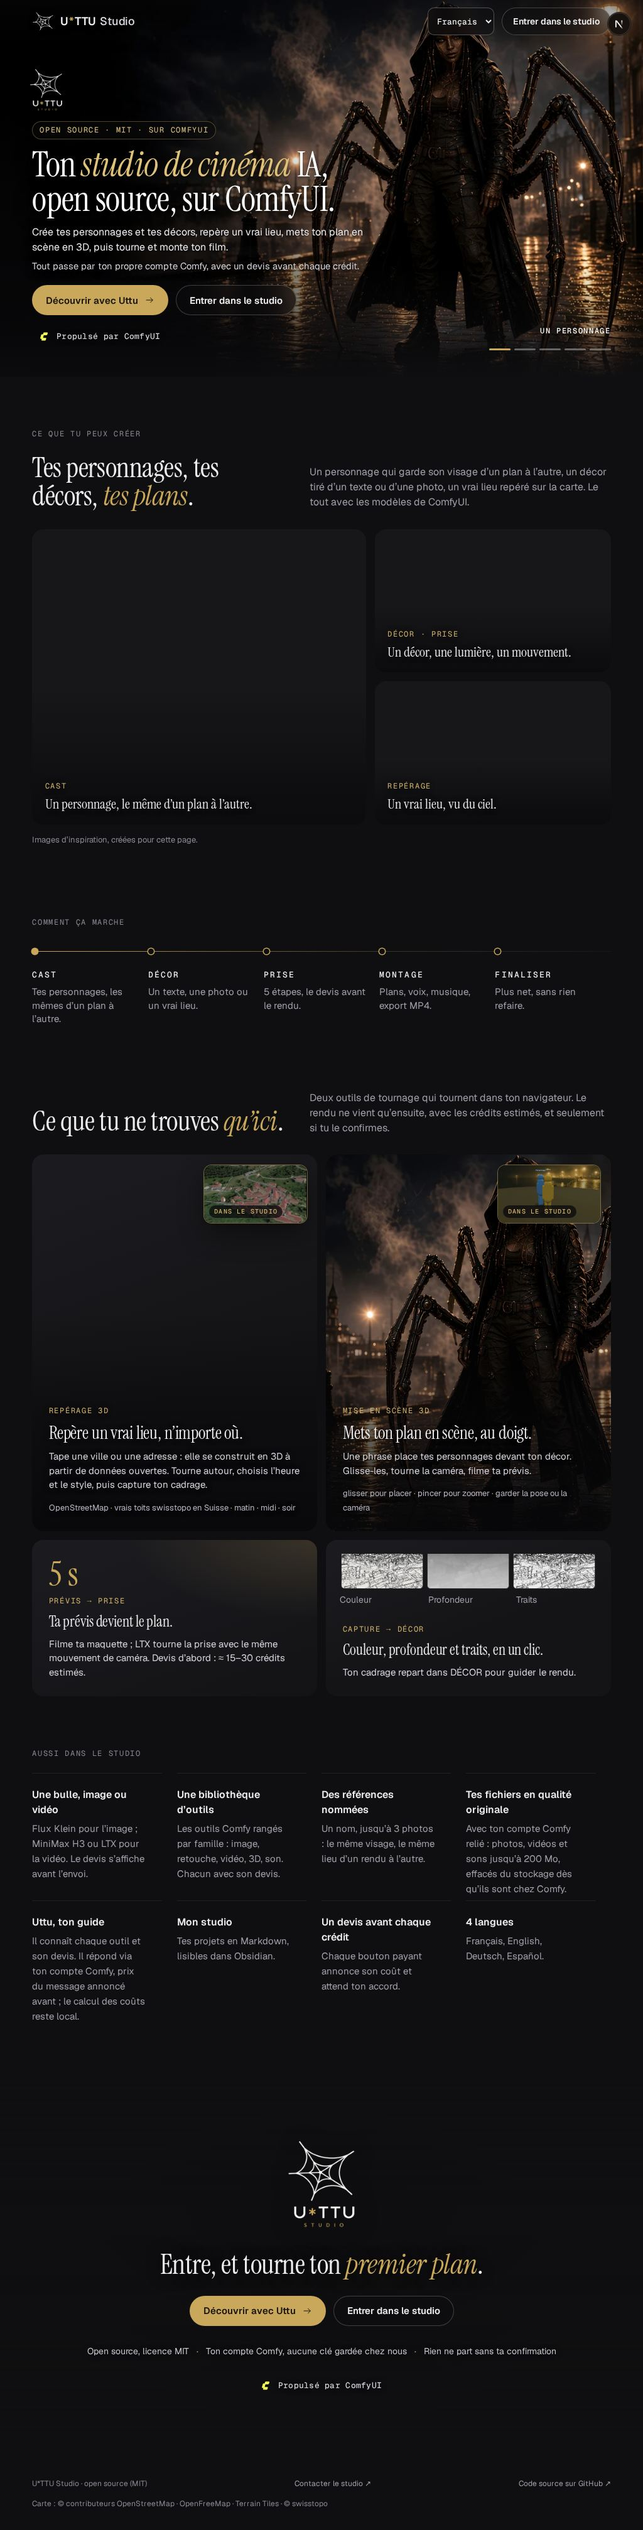
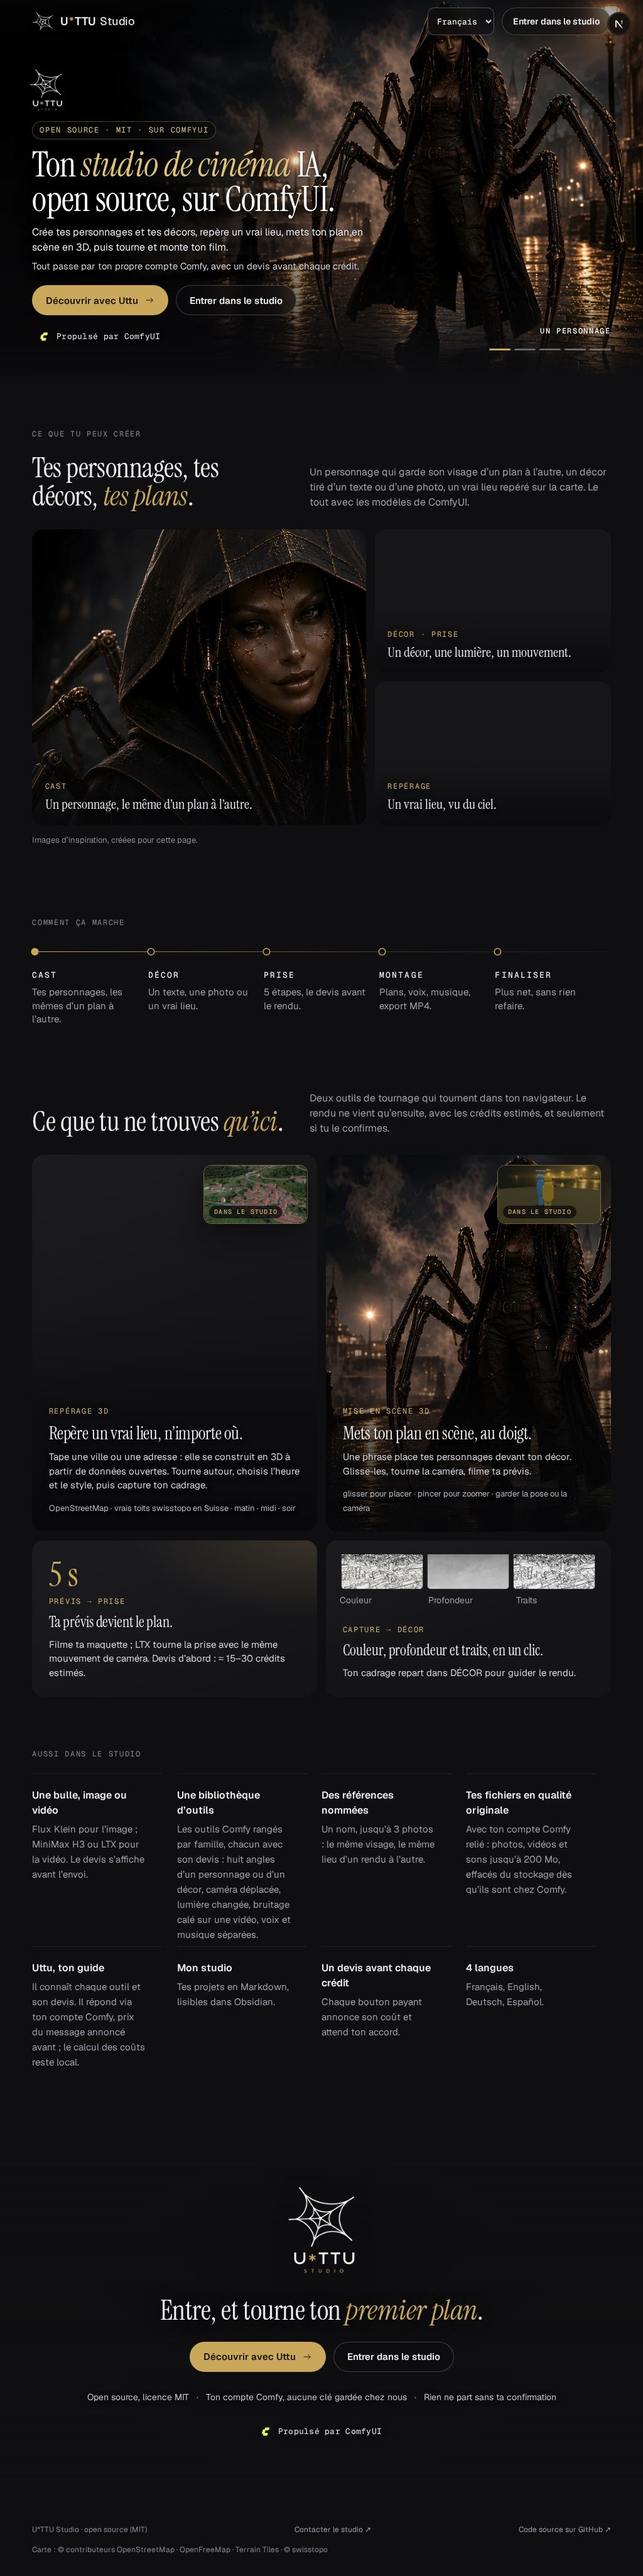
Uttu, accueil, README : outils du top 10 (angles, caméra, lumière, bruitage vidéo, séparer, images clés, transition, multi-caméra), pack compact sous 0,2 crédit

diff --git a/src/lib/agent/uttu-comfy.ts b/src/lib/agent/uttu-comfy.ts
@@ -30,7 +30,7 @@ export const HISTORY = 8;
 /** Output ceiling, hidden reasoning tokens included. A short JSON answer needs ~300; the rest is headroom. */
 export const MAX_OUTPUT_TOKENS = 1600;
 /** Character budget for the knowledge pack sent with each message. */
-export const PACK_BUDGET = 11000;
+export const PACK_BUDGET = 10600;
 /** Conservative token count for French/German prose: one token per three characters. */
 export const CHARS_PER_TOKEN = 3;
 export const ATTEMPT_TIMEOUT_MS = 25_000;
@@ -93,14 +93,19 @@ export function buildPack(k: Knowledge, locale: UttuLocale, question: string, bu
   const tools = k.tools.filter(t => open.has(t.id) && L.tools[t.id]).map(t => {
     const info = L.tools[t.id];
     const quote = quoteText(locale, t.cost, t.nature);
-    return `- ${t.id}: ${info.title}${info.model ? ` (${info.model})` : ""} [${L.families[t.famille] ?? t.famille} → ${OUTPUT_KIND[t.sortie] ?? t.sortie}${quote ? ` · ${quote}` : ""}]: ${info.line}`;
+    return `- ${t.id}: ${info.title}${info.model ? ` (${info.model})` : ""} [${OUTPUT_KIND[t.sortie] ?? t.sortie}${quote ? ` · ${quote}` : ""}]: ${info.line}`;
   });
-  sections.push(`TOOLS (id: name [family → output · quote]: what it does)\n${tools.join("\n")}`);
-  const gestures = k.gestures.filter(g => g.ouvert && !g.option && (g.onglet === "cast" || g.onglet === "decor" || g.onglet === "prise" || g.onglet === "montage") && L.gestures[g.clef]).map(g => {
+  sections.push(`TOOLS (id: name [output · quote]: what it does)\n${tools.join("\n")}`);
+  const seenStep = new Set<string>();
+  const gestures = k.gestures.filter(g => g.ouvert && !g.option && (g.onglet === "cast" || g.onglet === "decor" || g.onglet === "prise" || g.onglet === "montage") && L.gestures[g.clef]).filter(g => {
+    const key = `${g.onglet}:${L.gestures[g.clef].title}`;
+    if (seenStep.has(key)) return false;
+    seenStep.add(key); return true;
+  }).map(g => {
     const quote = quoteText(locale, g.cost, g.nature);
-    return `- ${L.tabs[g.onglet]?.title ?? g.onglet}: ${L.gestures[g.clef].title}${quote ? ` [${quote}]` : ""}: ${L.gestures[g.clef].phrase}`;
+    return `- ${L.tabs[g.onglet]?.title ?? g.onglet}: ${L.gestures[g.clef].title}${quote ? ` [${quote}]` : ""}`;
   });
-  if (gestures.length) sections.push(`STEPS (tab: action [quote]: what it does)\n${[...new Set(gestures)].join("\n")}`);
+  if (gestures.length) sections.push(`STEPS (tab: action [quote])\n${[...new Set(gestures)].join("\n")}`);
   const hits = searchFaq(k, locale, question, 6).filter(hit => hit.kind === "faq").map(hit => hit.id);
   const order = [...new Set([...hits, ...GUIDE_FAQ])];
   const faq = order.map(id => L.faq.find(f => f.id === id)).filter(Boolean).map(f => `Q: ${f!.q}\nA: ${f!.a.replaceAll("{version}", k.version.short)}`);
@@ -136,7 +141,7 @@ export function buildInstructions(locale: UttuLocale, pack: string, version: str
     `You are Uttu, the guide of U*TTU Studio (version ${version}), a film studio that runs only on ComfyUI and Comfy Cloud.`,
     `Answer in ${LANG[locale]} unless the visitor clearly writes another of: français, English, Deutsch, español. Speak to the visitor informally (French: « tu », German: « du », Spanish: « tú »).`,
     `Use ONLY the KNOWLEDGE below. If the answer is not in it, say exactly « ${UNKNOWN[locale]} » and suggest the guide or the cost estimator. Never invent features, prices, models or links.`,
-    "Costs: quote only the « ≈ … » figures written in TOOLS or STEPS, word for word, and add that the studio shows the exact quote before anything is launched. Never compute a total, never invent a price, never call anything free: a render always costs credits; only guiding, estimating, scouting and the timeline launch no render.",
+    "Costs: quote only the « ≈ … » figures written in TOOLS, STEPS or FAQ, word for word, and add that the studio shows the exact quote before anything is launched. Never compute a total, never invent a price, never call anything free: a render always costs credits; only guiding, estimating, scouting and the timeline launch no render.",
     "Guide well: say which tool or tab fits the need, whether it makes an image, a video, a sound or 3D, which references or files to bring, and the next step (CAST → DÉCOR → PRISE in 5 steps → MONTAGE → Finaliser). Finaliser improves, it never regenerates. Only the tools in TOOLS exist: never mention any other.",
     "You cannot launch, buy, cancel or change anything. When the visitor wants something made, set action to \"plan\" with their request rewritten as one short order; the studio prepares the plan and the visitor clicks to launch after a quote. When one tool fits, set action to \"open_tool\" with its id from TOOLS. Otherwise action is \"none\".",
     "Keep the reply under 110 words, plain text, no markdown. No stories, no backstory: you are Uttu, a helpful studio guide.",

diff --git a/tests/uttu-studio-sync.test.ts b/tests/uttu-studio-sync.test.ts
@@ -52,9 +52,9 @@ test("sync: quotes are written in credits, never as free, image vs video vs soun
   for (const locale of UTTU_LOCALES) {
     const pack = buildPack(k, locale, "?");
     assert.doesNotMatch(pack, /\b(gratuit|gratuite|free|kostenlos|gratis)\b/i, locale);
-    assert.match(pack, /- img-klein: [^\n]*→ image/);
-    assert.match(pack, /- vid-h3-refs: [^\n]*→ video/);
-    assert.match(pack, /- son-dialogue: [^\n]*→ sound/);
+    assert.match(pack, /- img-klein: [^\n]*\[image/);
+    assert.match(pack, /- vid-h3-refs: [^\n]*\[video/);
+    assert.match(pack, /- son-dialogue: [^\n]*\[sound/);
     assert.match(pack, /\nSTEPS /);
   }
 });
@@ -83,5 +83,20 @@ test("sync: Uttu is the only guide, and no answer calls a render free", () => {
     const text = JSON.stringify(L.faq);
     assert.doesNotMatch(text, /\bMira\b/, locale);
     for (const f of L.faq) assert.doesNotMatch(f.a, /\b(gratuit|gratuite|gratuitement|free|kostenlos|gratis)\b/i, `${locale} ${f.id}`);
+  }
+});
+
+test("sync: top 10 paths are guided, unintegrated workflows are never proposed", () => {
+  for (const locale of UTTU_LOCALES) {
+    const pack = buildPack(k, locale, "Quel outil pour plusieurs angles et une vidéo à partir de références ?");
+    for (const id of ["ret-angles-perso", "ret-angles-decor", "ret-camera", "son-bruitage-video", "son-separer", "vid-multi", "vid-transition-style", "ret-eclairer-ouvert", "vid-h3-refs"]) {
+      assert.ok(open.includes(id), id);
+      assert.ok(pack.includes(k.locales[locale].tools[id].title), `${locale} ${id}`);
+    }
+    const which = k.locales[locale].faq.find(f => f.id === "which")!.a;
+    assert.match(which, /≈ 14 /, `${locale} multi-camera recipe`);
+    assert.ok(which.includes(k.locales[locale].tools["ret-angles-perso"].title), locale);
+    // Not integrated (docs/mesures/workflows-top10-2026-10-29.md) and the merged card is gone.
+    assert.doesNotMatch(pack, /FastH3|fasth3|Light Migration|light_migration|planche LTX|LTX reference sheet|Vidéo à références multiples|vid-vidu/i, locale);
   }
 });

diff --git a/README.md b/README.md
@@ -46,7 +46,7 @@ Live: <https://u-ttu-studio.vercel.app/studio> · License: [MIT](LICENSE) · Lan
 
 - **The bubble / La bulle « Qu’est-ce qu’on tourne ? »:** Image or Video before you type; Image runs Flux Klein, Video runs MiniMax H3 when references are attached, LTX otherwise. Up to 7 visual references (and one sound in Video); the quote « ≈ X credits estimated » shows under the bubble before sending. / *Image ou Vidéo avant d’écrire ; Image passe par Flux Klein, Vidéo par MiniMax H3 avec des références, sinon LTX. Jusqu’à 7 références visuelles (et un son en Vidéo) ; le devis « ≈ X crédits estimés » s’affiche sous la bulle avant l’envoi.*
 - **Named references / Références nommées:** a name and up to 3 photos of the same subject, filed as Character, Set, Object or Style; tap the card to attach it. / *Un nom et jusqu’à 3 photos du même sujet, rangée en Personnage, Décor, Objet ou Style ; touche la carte pour la joindre.*
-- **Tool library / Bibliothèque d’outils:** every open Comfy tool, sorted by family (create, retouch, video, 3D, sound), each with its own quote, plus « Scout a location » and « 3D layout and framing », which launch no render. The list and its counts come from the registry ([`src/lib/outils/catalogue.ts`](src/lib/outils/catalogue.ts), [`src/lib/workflows/registre.ts`](src/lib/workflows/registre.ts)). / *Chaque outil Comfy ouvert, rangé par famille, avec son devis, plus « Repérer un lieu » et « Maquette 3D et cadrage », qui ne lancent aucun rendu. La liste et ses chiffres viennent du registre.*
+- **Tool library / Bibliothèque d’outils:** every open Comfy tool, sorted by family (create, retouch, video, 3D, sound), each with its own quote: eight character or set angles, move the camera, relight (light from your prompt, studio portrait as second model), faithful keyframes (≈ 14 credits), style transition (≈ 7), reference-true video (≈ 4), sound effects for a video, split voice and music. Multi-camera is a recipe: eight angles, then one MiniMax H3 shot per angle (≈ 14 credits per angle). Plus « Scout a location » and « 3D layout and framing », which launch no render. The list and its counts come from the registry ([`src/lib/outils/catalogue.ts`](src/lib/outils/catalogue.ts), [`src/lib/workflows/registre.ts`](src/lib/workflows/registre.ts)). / *Chaque outil Comfy ouvert, rangé par famille, avec son devis : huit angles du personnage ou du décor, déplacer la caméra, changer la lumière (lumière par consigne, portrait studio en second modèle), images clés fidèles (≈ 14 crédits), transition de style (≈ 7), vidéo fidèle aux références (≈ 4), bruitage d’une vidéo, séparer voix et musique. Le multi-caméra est une recette : huit angles, puis une prise MiniMax H3 par angle (≈ 14 crédits par angle). Plus « Repérer un lieu » et « Maquette 3D et cadrage », qui ne lancent aucun rendu. La liste et ses chiffres viennent du registre.*
 - **PRISE in 5 steps / TAKE in 5 steps:** Prepare, Shots, Preview (check the framing before spending), Generate (quote first, then confirm), Review (keep, retry or send to EDIT). / *Préparer, Plans, Prévisualiser, Générer (le devis d’abord), Réviser.*
 - **Your files / Tes fichiers:** photos, MP4/MOV/WebM videos and sounds. With a linked Comfy account a file goes in original quality (up to 200 MB) through private storage to your Comfy account, then is deleted from that storage; otherwise the browser reduces it before sending. / *Photos, vidéos MP4/MOV/WebM et sons. Avec ton compte Comfy relié, le fichier part en qualité originale (jusqu’à 200 Mo) via un stockage privé vers ton compte Comfy, puis il en est effacé ; sinon le navigateur le réduit avant l’envoi.*
 - **Finaliser / Finalise:** upscales and cleans what exists (an image, a take or the whole edit), never regenerates; video quotes are estimated per 5 s block. / *Agrandit et rend net ce qui existe, sans jamais le refaire ; le devis vidéo est estimé par tranche de 5 s.*

diff --git a/docs/preuves/accueil-readme-agent/README.md b/docs/preuves/accueil-readme-agent/README.md
@@ -11,3 +11,7 @@ Serveur de dev local (`node scripts/dev.mjs`), branche `studio/accueil-readme-ag
 `avant-accueil-fr-844x390*.jpg` : l’accueil sur main avant ce changement, où FINALISER était coupé à droite de « Comment ça marche » en 844×390. Après : les cinq étapes tiennent sur une ligne.
 
 Sans compte relié, Uttu invite à relier Comfy (≈ 0,2 crédit estimé par message au plus, calculé par `perMessageCeiling`) ; la réponse du modèle n’est donc pas filmée ici.
+
+## Mise à jour top 10 (29.10.2026)
+
+Branche fusionnée avec `top10-doublons` (pile #167 → #173). Captures `accueil-fr-*` et `accueil-en-*` refaites : la carte « Une bibliothèque d’outils » cite les huit angles, la caméra déplacée, la lumière, le bruitage d’une vidéo et la séparation voix/musique. Aucun débordement horizontal aux 4 tailles ; seule cible < 44 px : le lien d’évitement 1×1. Le panneau Uttu n’a pas changé visuellement (captures `uttu-*` inchangées).
